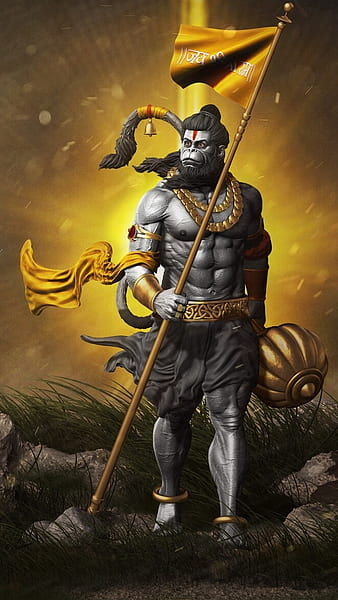
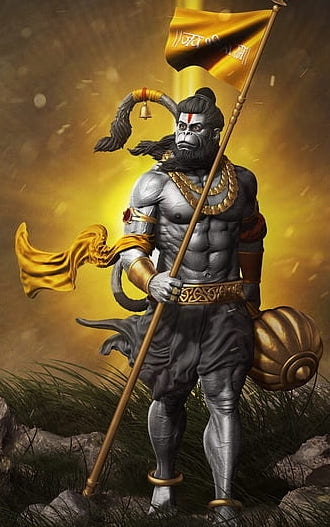
Fix images

diff --git a/src/Content/_info.js b/src/Content/_info.js
@@ -33,7 +33,7 @@ const data = [
       "Lakshmana's profound respect for Sita's purity and devotion, symbolized by recognizing her anklet amidst the jewelry, reminds us to value inner qualities over external appearances.",
     tags: ["Rama", "Lakshman", "Purity"],
     // date: "16 Nov 2021", // yyyy-mm-dd
-    cover: "ram-lakshman-ss.avif",
+    cover: "ram-lakshman-ss.png",
     contentsTitle: [
 
     ],
